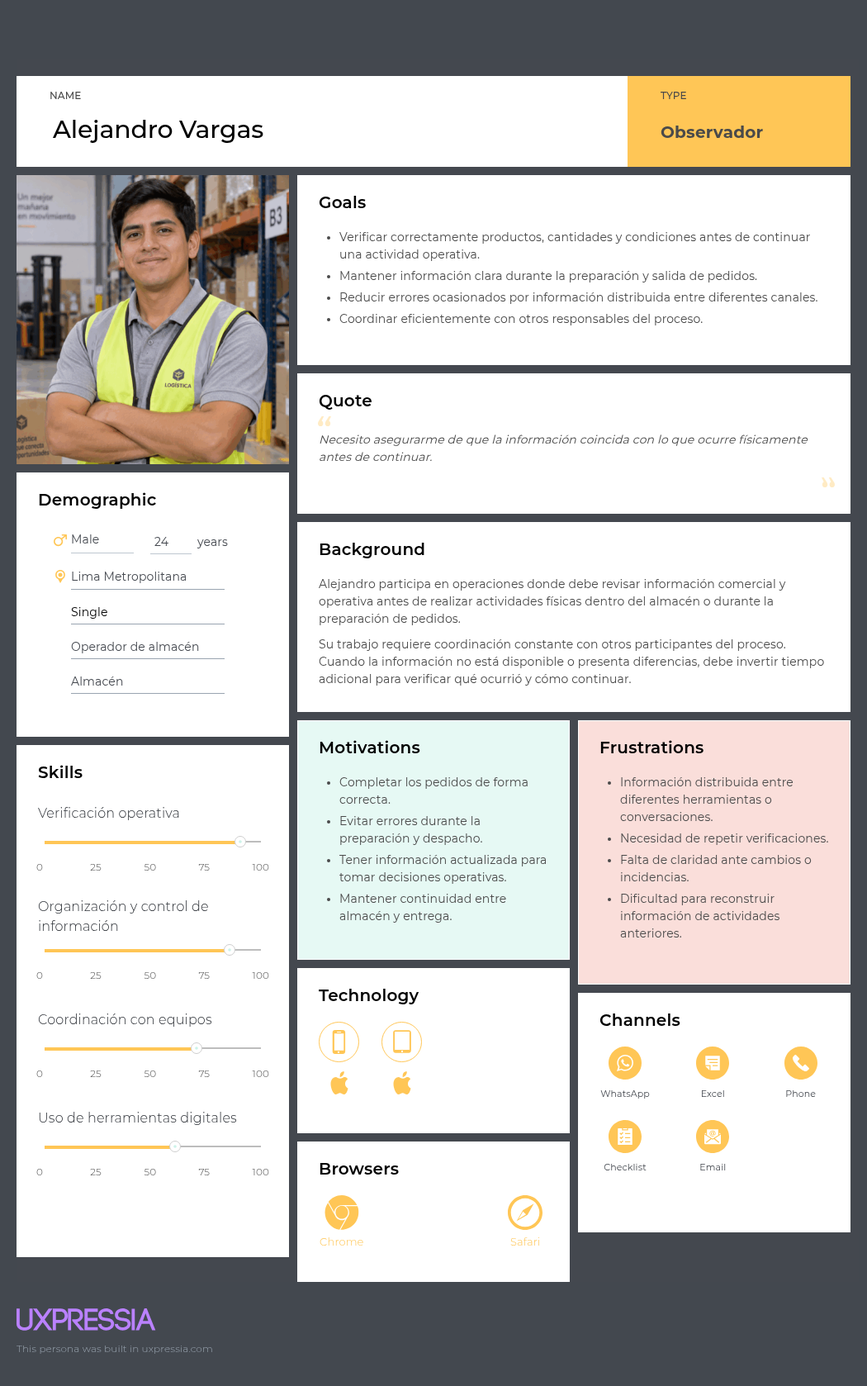
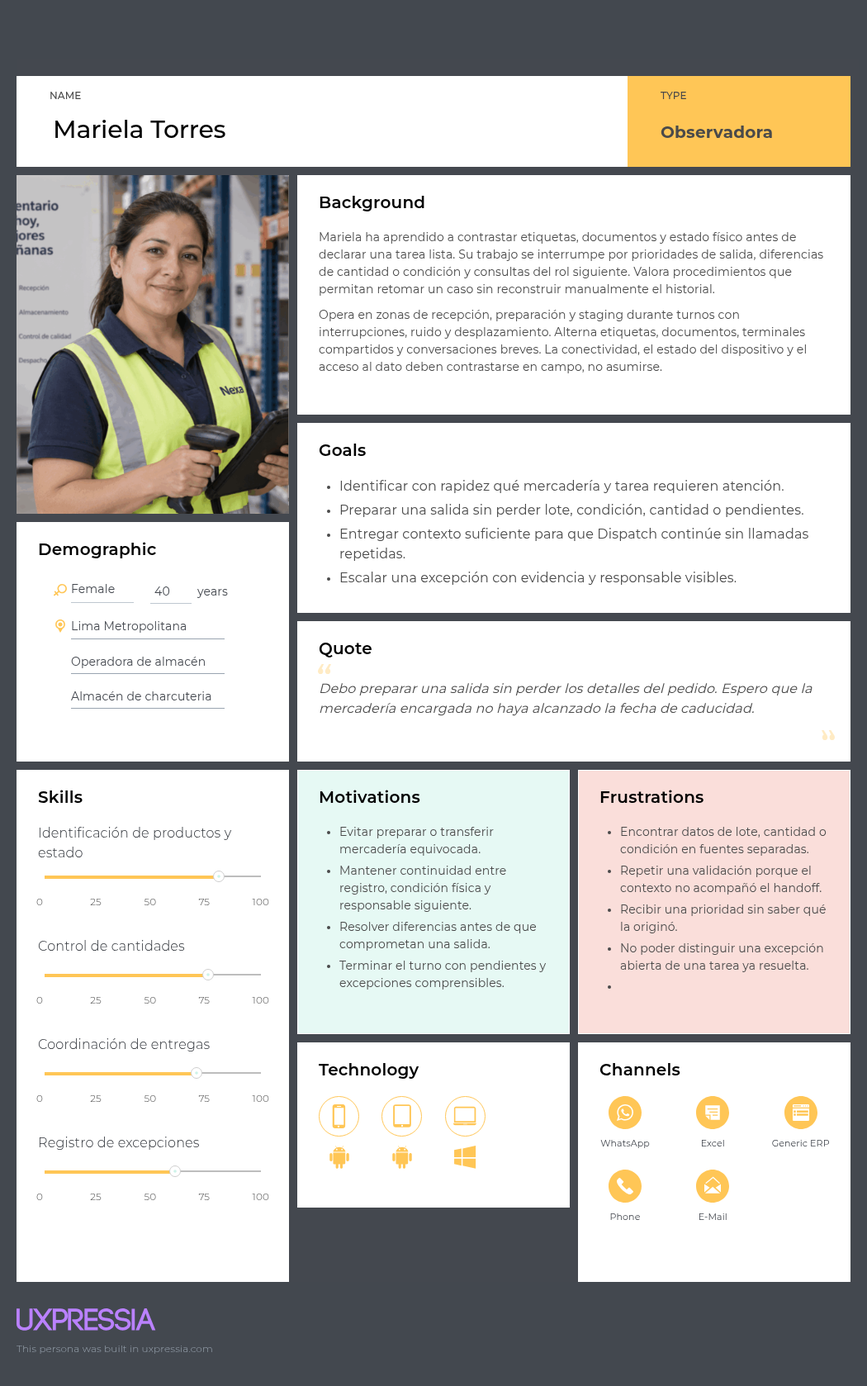
revert: remove unrelated chapter 2 updates

Changed region(s): [[0.0, 0.062, 1.0, 0.9297], [0.061, 0.8057, 0.2438, 0.8677], [0.061, 0.7437, 0.2438, 0.7747]]

diff --git a/report/02-requirements-and-software-solution-design/2.3-needfinding/2.3.1-user-personas.md b/report/02-requirements-and-software-solution-design/2.3-needfinding/2.3.1-user-personas.md
@@ -1,73 +1,104 @@
 ## 2.3. Needfinding
 
-La construcción de este bloque parte de tres insumos previos. El primero es el análisis de entrevistas de la sección 2.2, que identifica patrones de comportamiento, fricciones recurrentes y expectativas de adopción. El segundo es el análisis competitivo de la sección 2.1, que muestra que las soluciones existentes resuelven fragmentos del problema, pero no articulan con suficiente claridad la continuidad entre captura comercial, abastecimiento del cliente y cierre de entrega. El tercero es la lógica del dominio modelada en el proyecto, donde cada segmento interviene en un momento distinto del flujo.
-
-Los artefactos de needfinding traducen evidencia cualitativa en criterios de diseño: quién necesita autonomía, quién necesita visibilidad, quién necesita rapidez, quién necesita trazabilidad y en qué punto del recorrido cada necesidad se vuelve más sensible.
-
 ### 2.3.1. User Personas
 
-Las tres User Personas presentadas en esta sección fueron elaboradas a partir de los patrones identificados en el análisis de entrevistas. Su construcción busca representar comportamientos, objetivos, motivaciones, frustraciones y condiciones de uso relevantes para el diseño de Nexa Mobile sin convertir características particulares de un entrevistado en propiedades generales del segmento. Los nombres y perfiles utilizados son ficticios y funcionan como **arquetipos de diseño**; no representan participantes reales ni promedios estadísticos de la muestra.
+Las tres User Personas son arquetipos sintéticos informados por patrones
+recurrentes del Interview Analysis (2.2.3) y por el contexto competitivo de
+2.1. No representan entrevistados, promedios estadísticos, perfiles de
+autorización ni entidades de dominio. Su función es mantener visibles las
+necesidades y condiciones de trabajo de los segmentos sin convertirlas en una
+validación de solución.
 
-#### Alejandro Vargas — Warehouse & Dispatch Operations
+*Nota de procedencia.* Los PNG exportados desde UXPressia conservan etiquetas e
+identidades sintéticas. La interpretación conductual presentada en esta sección
+sigue el *Needfinding* cerrado y no atribuye sus datos visuales a participantes
+reales.
 
-**Nombre:** Alejandro Vargas
+#### Mariela Torres — Síntesis de Warehouse & Dispatch Operations
 
-**Segmento:** `MOB-SEG-01 — Warehouse & Dispatch Operations`
+**Segmento y fuente.** Mariela sintetiza `MOB-SEG-01` a partir de
+`INT-S1-01`, `INT-S1-02` y `INT-S1-03`. Dos casos corresponden a trabajo
+Warehouse y uno a coordinación de almacén y despacho.
 
-Este segmento esta compuesto por personas que participan en recepción, preparación, readiness y salida física del pedido. La muestra correspondiente reúne dos casos principalmente asociados con trabajo de `Warehouse Operator` y uno con coordinación de almacén y despacho, por lo que la persona se centra en el trabajo operativo de almacén sin eliminar las diferencias de responsabilidad que corresponden al `Dispatch Coordinator`.
+**Comportamientos y tareas.** La síntesis prioriza verificar producto e
+información antes de continuar, consultar una herramienta empresarial, preparar
+el pedido, resolver una excepción y transferir responsabilidad. WhatsApp aparece
+como canal de coordinación; los registros, hojas de cálculo y controles físicos
+varían según el caso.
 
-La construcción de Alejandro prioriza la exactitud antes de continuar con una actividad física. En la muestra se repiten la verificación de producto e información, el uso de herramientas empresariales y la coordinación mediante WhatsApp. También aparecen la resolución de excepciones y la necesidad de conservar contexto cuando el pedido pasa hacia la siguiente actividad. Entre las principales fricciones se encuentran la información fragmentada o duplicada, las verificaciones repetidas, la limitada flexibilidad ante ciertas excepciones y las condiciones físicas que pueden dificultar la consulta o el registro mientras se manipula mercadería.
+**Necesidades y pains.** Necesita conservar contexto suficiente entre
+verificación, preparación y transferencia, sin duplicar consultas o registros.
+Las fricciones recurrentes incluyen información fragmentada, flexibilidad
+limitada ante excepciones y, en parte de la muestra, restricciones físicas para
+consultar o registrar datos.
 
-*Ficha de User Persona 1 — Alejandro Vargas, Warehouse & Dispatch Operations*
+**Límite y frontera.** Mariela no equivale a una persona entrevistada ni fusiona
+`Warehouse Operator` con `Dispatch Coordinator`. La evidencia de transferencia
+no es homogénea y las tareas de cada actor permanecen separadas.
 
 ![User Persona 1](../../assets/chapter-2/needfinding/user-persona-1.png)
 
-*Nota.* Ficha de User Persona 1 elaborada a partir de los patrones identificados en las muestras y representada mediante UXPressia. Elaboración propia.
+*Nota.* La Persona interpreta patrones de verificación, preparación, excepción y
+transferencia del segmento; no establece una frecuencia operativa general ni una
+solución Mobile validada.
 
-La ficha representa a un usuario que combina consulta de información digital con trabajo físico y que necesita reducir la posibilidad de continuar con datos incompletos o inconsistentes. El arquetipo no supone que todos los trabajadores del segmento utilicen el mismo procedimiento, dispositivo o mecanismo de evidencia. Asimismo, `Warehouse Operator` y `Dispatch Coordinator` mantienen responsabilidades diferenciadas cuando una tarea depende específicamente de la preparación o de la transferencia de responsabilidad.
+#### Diego Ramírez — Síntesis de Driver Delivery Execution
 
-#### Diego Morales — Driver Delivery Execution
+**Segmento y fuente.** Diego sintetiza `MOB-SEG-02` a partir de `INT-S2-01`,
+`INT-S2-02` y `INT-S2-03`.
 
-**Nombre:** Diego Morales
+**Comportamientos y tareas.** La síntesis recoge verificación previa, ejecución
+de la entrega asignada, comunicación o escalamiento de incidencias y conservación
+de algún mecanismo de evidencia del resultado. Fotografías y códigos de
+verificación aparecen como mecanismos distintos según la operación.
 
-**Segmento:** `MOB-SEG-02 — Driver Delivery Execution`
+**Necesidades y pains.** Necesita reconocer el contexto de entrega, reaccionar
+ante una incidencia y distinguir evidencia, resultado y comunicación asociados
+al intento correcto. Batería, señal, sobrecalentamiento, clima y seguridad física
+condicionan el uso del teléfono; no se asume disponibilidad continua del
+dispositivo.
 
-Este segmento esta conformado por personas responsables de ejecutar entregas asignadas y registrar lo ocurrido durante cada `Delivery Attempt`. La persona recoge patrones de las tres entrevistas realizadas a trabajadores que ejecutan entregas en campo y que, aunque operan bajo modalidades diferentes, comparten necesidades relacionadas con preparación, comunicación, resolución de incidencias y uso del teléfono durante la ruta.
-
-La construcción de Diego refleja un contexto donde el usuario debe revisar la entrega asignada, desplazarse hasta el punto correspondiente, reaccionar ante problemas y comunicar lo ocurrido cuando una entrega no puede completarse según lo previsto. La muestra también evidencia que existe algún mecanismo para dejar constancia del resultado, aunque este no es homogéneo entre operaciones. Las restricciones de batería, señal, conectividad, condiciones ambientales y seguridad física forman parte del contexto móvil y pueden afectar la disponibilidad del dispositivo durante el trabajo.
-
-*Ficha de User Persona 2 — Diego Morales, Driver Delivery Execution*
+**Límite y frontera.** Diego representa un Driver / Delivery Operator, no una
+autoridad de recepción. Su resultado permanece separado de Buyer Receipt y la
+evidencia no se reduce a fotografía como formato universal.
 
 ![User Persona 2](../../assets/chapter-2/needfinding/user-persona-2.png)
 
-*Nota.* Ficha de User Persona 2 elaborada a partir de los patrones identificados en las muestras y representada mediante UXPressia. Elaboración propia.
+*Nota.* La Persona resume condiciones móviles, comunicación y resolución de
+incidencias observadas en la muestra; no acredita tracking continuo ni valida
+una feature de Delivery.
 
-La ficha representa a un usuario orientado a completar la entrega, adaptarse a las condiciones de la ruta y resolver incidencias mediante comunicación o escalamiento cuando corresponde. El arquetipo no establece tracking continuo, disponibilidad permanente de conexión ni un formato universal de evidencia. Además, el resultado registrado por el `Driver / Delivery Operator` permanece diferenciado de la recepción o discrepancia comunicada posteriormente por el comprador.
+#### Carlos Mendoza — Síntesis de B2B Buyers
 
-#### Carlos Mendoza — B2B Buyers
+**Segmento y fuente.** Carlos sintetiza `MOB-SEG-03` a partir de `INT-S3-01`,
+`INT-S3-02` y `INT-S3-03`.
 
-**Nombre:** Carlos Mendoza
+**Comportamientos y tareas.** La síntesis centra reabastecimiento, continuidad
+de suministro, puntualidad, coordinación con proveedores y protección de la
+disponibilidad para clientes propios. También incorpora seguimiento de llegada,
+recepción o coordinación de recepción y resolución de incidencias cuando
+corresponde.
 
-**Segmento:** `MOB-SEG-03 — B2B Buyers`
+**Necesidades y pains.** Necesita anticipar faltantes, conocer cambios que
+afectan una compra o llegada y contar con respuesta verificable ante demoras,
+faltantes, daños o incumplimientos. La recepción física detallada es un
+subescenario importante, pero la evidencia más profunda de ese recorrido se
+concentra en un caso y no representa todo el segmento.
 
-Este segmento esta formado por compradores empresariales que protegen la continuidad de su abastecimiento, coordinan con proveedores y reciben o verifican entregas cuando corresponde. La persona se construye principalmente alrededor de la continuidad comercial, evitando reducir el rol del `Customer Buyer` a la recepción física de mercadería.
-
-La muestra evidencia como preocupaciones recurrentes la puntualidad, la prevención de quiebres de existencias y la capacidad de resolver excepciones mediante una relación confiable con el proveedor. Carlos representa a un comprador que necesita identificar necesidades de reabastecimiento, coordinar pedidos, conocer cambios relevantes y realizar seguimiento a la llegada para proteger la disponibilidad destinada a sus propios clientes. Las demoras, incumplimientos, faltantes, daños y la coordinación manual aparecen como fricciones relevantes. La recepción física detallada se conserva como un escenario aplicable cuando corresponde, pero no se generaliza como comportamiento universal del segmento.
-
-*Ficha de User Persona 3 — Carlos Mendoza, B2B Buyers*
+**Límite y frontera.** Carlos representa un Customer Buyer sintético. Buyer
+Receipt expresa su perspectiva sobre lo recibido y no sobrescribe Driver Outcome
+ni otros hechos de negocio.
 
 ![User Persona 3](../../assets/chapter-2/needfinding/user-persona-3.png)
 
-*Nota.* Ficha de User Persona 3 elaborada a partir de los patrones identificados en las muestras y representada mediante UXPressia. Elaboración propia.
-
-La ficha representa a un comprador cuya prioridad es mantener la continuidad del abastecimiento y responder oportunamente ante cambios que puedan afectar su operación comercial. El uso de dispositivos y canales digitales observado en la muestra aporta contexto para comprender sus actividades, pero no convierte una aplicación, navegador, medio de pago o canal específico en un requisito universal. De la misma manera, `Buyer Receipt` expresa la perspectiva del comprador sobre lo recibido y permanece separado del resultado declarado por el `Driver / Delivery Operator`.
+*Nota.* La Persona articula la continuidad comercial del Buyer con recepción y
+discrepancia cuando aplican; no convierte canales, edad o herramientas de la
+muestra en requisitos de diseño.
 
 #### Uso y estado metodológico
 
-Las User Personas funcionan como una síntesis de la evidencia obtenida durante las entrevistas y proporcionan una referencia común para los siguientes artefactos de *Needfinding*. Alejandro Vargas concentra los patrones asociados con verificación, preparación, excepciones y continuidad hacia la salida del pedido; Diego Morales concentra las condiciones móviles, la ejecución del intento de entrega, la comunicación de incidencias y la conservación de evidencia; y Carlos Mendoza concentra el reabastecimiento, la coordinación con proveedores, la puntualidad y la continuidad comercial.
-
-Las características incluidas deben interpretarse dentro de los límites de la muestra realizada. La cobertura de tres entrevistas por segmento permite identificar recurrencias útiles para el proceso de diseño, pero no permite afirmar frecuencias poblacionales ni convertir una característica observada en una regla aplicable a todos los usuarios potenciales de Nexa. Por esta razón, los perfiles demográficos, nombres y demás elementos utilizados para dar coherencia visual a las fichas se emplean como recursos de representación y no como identidades de participantes reales.
-
-Asimismo, las personas mantienen las fronteras de responsabilidad definidas para los segmentos objetivo. `Warehouse Operator` y `Dispatch Coordinator` pueden participar en momentos relacionados del flujo físico, pero no constituyen un único rol; `Driver / Delivery Operator` registra el resultado de su intento de entrega sin asumir la perspectiva de recepción del comprador; y `Customer Buyer` protege el abastecimiento y puede comunicar recepción o discrepancia cuando corresponda sin apropiarse de los hechos operativos del Driver. Esta separación permite que los artefactos posteriores conserven el contexto de cada actor sin fusionar responsabilidades diferentes.
-
-Finalmente, las User Personas representan la situación investigada y sirven como insumo para la elaboración de User Task Matrix, User Journey Maps, Empathy Maps e Impact Mapping. Su propósito es mantener visibles los problemas, tareas, necesidades y condiciones actuales de los usuarios durante el diseño. Por tanto, ninguna característica de las fichas debe interpretarse por sí sola como validación de una solución, aceptación de una funcionalidad o evidencia de que una capacidad futura de Nexa Mobile ya resuelve los problemas observados.
+Mariela Torres, Diego Ramírez y Carlos Mendoza organizan la interpretación de
+la User Task Matrix, los User Journey Maps, los Empathy Maps y el Impact
+Mapping. Las Personas aportan una síntesis de problema y tarea actual; la
+validación de efectos, outcomes y capacidades propuestas permanece en etapas de
+solution validation.

diff --git a/report/02-requirements-and-software-solution-design/2.3-needfinding/2.3.2-user-task-matrix.md b/report/02-requirements-and-software-solution-design/2.3-needfinding/2.3.2-user-task-matrix.md
@@ -1,8 +1,9 @@
 ### 2.3.2. User Task Matrix
 
-La User Task Matrix concentra las tareas que realizan las tres User Personas paraalcanzar sus objetivos en la situación actual, independientemente de que Nexa Mobile exista o de la forma en que una futura solución pueda apoyarlas. Se consideran **Alejandro Vargas**, representante de `MOB-SEG-01 — Warehouse & Dispatch Operations`; **Diego Morales**, representante de `MOB-SEG-02 — Driver Delivery Execution`; y **Carlos Mendoza**, representante de `MOB-SEG-03 — B2B Buyers`.
-
-Las tareas se derivan de los patrones identificados en las entrevistas y sintetizados en las User Personas. Por ello, describen actividades del usuario —por ejemplo, verificar mercadería, coordinar una entrega o identificar una necesidad de reabastecimiento— y no opciones de interfaz, funcionalidades de software ni mecanismos específicos de Nexa.
+La matriz ordena tareas del mundo real descritas en el *Needfinding*, antes de
+proponer una interfaz o un flujo de Nexa. Las valoraciones reflejan centralidad
+dentro de los recorridos relatados; no convierten una recurrencia de la muestra
+en frecuencia operativa general.
 
 *Escala de frecuencia e importancia para los recorridos As-Is*
 
@@ -13,32 +14,34 @@ Las tareas se derivan de los patrones identificados en las entrevistas y sinteti
 | Baja | Responsabilidad real de baja frecuencia o centrada en excepciones. | Es útil resolverla, pero no define por sí sola el flujo principal. |
 | No aplica | No forma parte de la responsabilidad de la Persona. | No forma parte de la responsabilidad de la Persona. |
 
-### User Task Matrix
-*User Task Matrix de las User Personas de Nexa Mobile*
-| Tarea realizada por el usuario | Alejandro Vargas — Frecuencia | Alejandro Vargas — Importancia | Diego Morales — Frecuencia | Diego Morales — Importancia | Carlos Mendoza — Frecuencia | Carlos Mendoza — Importancia |
-| :--- | :---: | :---: | :---: | :---: | :---: | :---: |
-| Reunir y revisar la información necesaria para iniciar o continuar su actividad | Alta | Alta | Alta | Alta | Alta | Alta |
-| Verificar que la mercadería y la información coincidan con lo esperado —producto, cantidad, condición y, cuando corresponda, lote o vencimiento— | Alta | Alta | Alta | Alta | Media | Alta |
-| Preparar y dejar el pedido listo para continuar hacia la siguiente actividad operativa | Alta | Alta | No aplica | No aplica | No aplica | No aplica |
-| Coordinar la transferencia o salida del pedido con el siguiente responsable del proceso | Alta | Alta | No aplica | No aplica | No aplica | No aplica |
-| Revisar la entrega asignada y desplazarse hacia el destino correspondiente | No aplica | No aplica | Alta | Alta | No aplica | No aplica |
-| Coordinar con otra persona involucrada —compañero, cliente, proveedor, vendedor, soporte o responsable operativo— para mantener la continuidad del trabajo | Alta | Alta | Alta | Alta | Alta | Alta |
-| Resolver o escalar una incidencia, como faltantes, daños, diferencias, dirección incorrecta, ausencia, rechazo o retraso | Media | Alta | Media | Alta | Media | Alta |
-| Conservar un registro o evidencia suficiente para explicar el cambio de responsabilidad o el resultado de la actividad | Media | Alta | Alta | Alta | Media | Alta |
-| Identificar una necesidad de reabastecimiento antes de que la falta de producto afecte la operación | No aplica | No aplica | No aplica | No aplica | Alta | Alta |
-| Coordinar o realizar un pedido con un proveedor de acuerdo con la necesidad de abastecimiento | No aplica | No aplica | No aplica | No aplica | Alta | Alta |
-| Dar seguimiento a la llegada y puntualidad de un pedido para anticipar su impacto en la operación | No aplica | No aplica | No aplica | No aplica | Alta | Alta |
-| Recibir o coordinar la recepción de un pedido y comunicar diferencias entre lo esperado y lo recibido cuando corresponda | No aplica | No aplica | No aplica | No aplica | Media | Alta |
+*Matriz de tareas del mundo real por Persona*
 
-*Nota.* Las valoraciones representan la centralidad cualitativa de cada tarea dentro de los recorridos investigados y no porcentajes poblacionales ni frecuencias medidas por unidad de tiempo. La categoría “No aplica” evita atribuir a una Persona tareas que pertenecen a otra responsabilidad. En particular, la matriz no convierte la preparación de almacén, el resultado del `Driver / Delivery Operator` y la recepción o discrepancia del `Customer Buyer` en una única responsabilidad. Elaboración propia.
+| Tarea del mundo real | Mariela: Frecuencia | Mariela: Importancia | Diego: Frecuencia | Diego: Importancia | Carlos: Frecuencia | Carlos: Importancia | Fundamento en Needfinding |
+| --- | --- | --- | --- | --- | --- | --- | --- |
+| Reconocer el pedido, entrega o trabajo actual | Alta | Alta | Alta | Alta | Alta | Alta | Cada segmento necesita identificar su contexto antes de continuar. |
+| Consultar información relevante para continuar | Alta | Alta | Alta | Alta | Alta | Alta | Herramientas empresariales, aplicaciones, registros o canales directos apoyan el trabajo según el segmento. |
+| Verificar producto, cantidad, condición o información antes de continuar | Alta | Alta | Media | Alta | Media | Alta | La comprobación física es central en Warehouse; Driver verifica antes de la ruta y Buyer la realiza o coordina cuando corresponde. |
+| Preparar trabajo Warehouse y confirmar readiness o handoff | Alta | Alta | No aplica | No aplica | No aplica | No aplica | Preparación y transferencia pertenecen a Warehouse & Dispatch Operations. |
+| Ejecutar un Delivery Attempt y registrar su resultado | No aplica | No aplica | Alta | Alta | No aplica | No aplica | La ejecución de entrega es responsabilidad de Driver / Delivery Operator. |
+| Coordinar o escalar una excepción | Media | Alta | Alta | Alta | Alta | Alta | Faltantes, daños, direcciones, demoras o incumplimientos requieren coordinación con otra persona. |
+| Asociar o revisar evidencia, registro o documento del hecho | Media | Alta | Alta | Alta | Media | Alta | El mecanismo varía: registro de operación, fotografía, código, boleta o documentación de apoyo. |
+| Consultar estado de salida, ruta, llegada o pedido | Media | Media | Media | Media | Alta | Alta | Para Buyer, la llegada y puntualidad protegen abastecimiento; en operación y ruta depende del caso. |
+| Identificar una necesidad de reabastecimiento y preparar o repetir una compra | No aplica | No aplica | No aplica | No aplica | Alta | Alta | La continuidad de suministro y la prevención de quiebres organizan el recorrido Buyer. |
+| Recibir o coordinar una entrega como Buyer y comunicar una discrepancia al proveedor | No aplica | No aplica | No aplica | No aplica | Media | Alta | Es un subescenario Buyer real, con mayor evidencia detallada en una entrevista. |
+| Retomar trabajo después de una interrupción | Media | Alta | Alta | Alta | Media | Media | Interrupciones físicas, de comunicación, disponibilidad o atención afectan los tres recorridos de modo distinto. |
 
-La matriz muestra tres núcleos de actividad claramente diferenciados. Para **Alejandro Vargas**, las tareas de mayor frecuencia e importancia son revisar información, verificar mercadería, preparar el pedido y asegurar que pueda continuar hacia la siguiente actividad sin diferencias pendientes. Esta lectura coincide con el patrón recurrente de verificación antes de continuar observado en el segmento. La gestión de incidencias mantiene importancia alta, pero se clasifica con frecuencia media porque aparece cuando el flujo normal presenta faltantes, daños, inconsistencias u otras excepciones. Del mismo modo, conservar evidencia de la transferencia es importante, pero su frecuencia se mantiene en nivel medio porque las entrevistas muestran mecanismos distintos y no homogéneos para dejar constancia del cambio de responsabilidad.
+*Nota.* Mariela, Diego y Carlos son arquetipos sintéticos. La matriz interpreta
+la evidencia de campo y no prueba que una capacidad esté implementada o produzca
+un outcome.
 
-Para **Diego Morales**, el recorrido se concentra en revisar la entrega, verificar su condición, desplazarse al destino, coordinar con las personas involucradas y dejar constancia del resultado. La evidencia de entrega o intento recibe frecuencia e importancia altas porque los tres casos del segmento describen algún mecanismo para respaldar el resultado, aunque la forma concreta varía entre fotografías, códigos u otros controles. Las incidencias se mantienen con frecuencia media e importancia alta: no constituyen el objetivo normal de una entrega, pero cuando ocurren pueden detener la ruta, requerir intervención de otra persona o terminar en rechazo o retorno del producto.
+La mayor centralidad se concentra en verificación, preparación y transferencia
+para Mariela; en Delivery Attempt, incidencias y evidencia para Diego; y en
+reabastecimiento, coordinación y puntualidad para Carlos. La recepción y la
+discrepancia permanecen relevantes para Buyer, pero no agotan su continuidad
+comercial.
 
-Para **Carlos Mendoza**, las tareas centrales son identificar oportunamente una necesidad de reabastecimiento, coordinar el pedido con el proveedor y dar seguimiento a su llegada para proteger la continuidad comercial. La comunicación con el proveedor
-es también una actividad de alta frecuencia e importancia, especialmente ante urgencias o cambios. La recepción física detallada se mantiene con frecuencia media e importancia alta: forma parte del contexto del segmento cuando corresponde, pero la evidencia previa no permite presentarla como una actividad igualmente detallada para todos los compradores entrevistados. Esta distinción evita reducir al `Customer Buyer` a la sola recepción de mercadería.
-
-Como coincidencia, los tres arquetipos necesitan **información suficiente para actuar, verificación y coordinación con otras personas**. También comparten la necesidad de resolver excepciones, aunque estas aparecen en momentos y bajo responsabilidades diferentes. La diferencia principal se encuentra en el propósito de esas tareas: Alejandro protege la exactitud antes de que el pedido continúe en la operación física; Diego protege la ejecución y explicación del resultado de la entrega; y Carlos protege la continuidad del abastecimiento de su negocio.
-
-Estas diferencias son relevantes para los siguientes artefactos de *Needfinding*, pues permiten mantener separados los objetivos y responsabilidades de cada Persona. La matriz, por tanto, funciona como una síntesis de tareas del mundo real y no como una lista anticipada de funcionalidades de Nexa Mobile.
+Las diferencias principales son de responsabilidad: Warehouse no ejecuta la
+entrega, Driver no decide el reabastecimiento y Buyer no realiza el handoff de
+almacén. Los tres recorridos comparten la necesidad de información suficiente,
+verificación y coordinación ante excepciones, sin convertir esas tareas en una
+misma autoridad de dominio.

diff --git a/report/02-requirements-and-software-solution-design/2.3-needfinding/2.3.3-user-journey-mapping.md b/report/02-requirements-and-software-solution-design/2.3-needfinding/2.3.3-user-journey-mapping.md
@@ -1,42 +1,53 @@
 ### 2.3.3. User Journey Mapping
 
-El User Journey Mapping permite representar la experiencia de cada segmento objetivo durante la ejecución de actividades relacionadas con su contexto operativo. A partir de la información obtenida durante las entrevistas y la definición de User Personas, se identifican las etapas principales del recorrido, las acciones realizadas, pensamientos, puntos de dolor, emociones experimentadas y oportunidades de mejora.
+Los Journey Maps describen la experiencia **As-Is** sin Nexa. Sintetizan
+patrones recurrentes de investigación y no son transcripciones, diseños de
+interfaz ni validación de una solución. Los PNG de UXPressia se conservan como
+artefactos visuales; esta interpretación canónica delimita el recorrido que
+representan.
 
-Los siguientes Journey Maps representan el estado actual de los usuarios antes de considerar la incorporación de una solución digital. Por ello, describen las actividades, dificultades y necesidades presentes en sus procesos habituales de trabajo.
+#### Mariela Torres — Warehouse & Dispatch Operations
 
----
+*As-Is Journey Map de Mariela Torres: preparación, verificación, excepción y transferencia de responsabilidad*
 
-#### Alejandro — Warehouse & Dispatch Operations
+El recorrido parte de una recepción o tarea de preparación, continúa con consulta
+de información empresarial y comprobación física, y avanza mediante preparación
+y re-verificación. Cuando aparece una diferencia, se detiene, separa o escala
+antes de la transferencia. El Journey Map conserva que Warehouse y Dispatch
+tienen responsabilidades diferenciadas y que la evidencia de handoff no es
+homogénea.
 
-Alejandro participa en actividades de recepción, preparación, verificación y coordinación de salida de pedidos. Su recorrido depende de que la información comercial y operativa coincida con las condiciones físicas del almacén y del pedido preparado.
+![Journey Map 1](../../assets/chapter-2/needfinding/journey-map-1.png)
 
-*Warehouse & Dispatch Operations Journey Map*
-![Journey Map 1](../../assets/chapter-2/needfinding/user-journey-map-1.png)
-*Nota.* Journey Map elaborado a partir de la información recopilada durante las entrevistas realizadas a trabajadores involucrados en actividades de almacén y despacho, complementada con la definición del User Persona Alejandro. Representa el recorrido actual (*as-is*) durante la preparación y coordinación de pedidos antes de considerar una solución digital. Elaboración propia.
+*Nota.* Síntesis As-Is basada en `INT-S1-01`, `INT-S1-02` y `INT-S1-03`; no
+describe funciones de Nexa ni asume que todos los handoffs usan el mismo registro.
 
+#### Diego Ramírez — Driver Delivery Execution
 
-#### Diego — Driver Delivery Execution
+*As-Is Journey Map de Diego Ramírez: entrega asignada, intento, incidencia, evidencia y cierre*
 
-Diego realiza actividades de entrega donde debe trasladarse hacia diferentes destinos, coordinar con clientes y resolver situaciones inesperadas durante la ruta. Su experiencia depende de disponer de información suficiente para ejecutar la entrega y explicar el resultado obtenido.
+El recorrido parte de una entrega asignada y su verificación, continúa con ruta y
+Delivery Attempt, y contempla una incidencia con comunicación o escalamiento.
+El resultado se respalda mediante un mecanismo de evidencia que cambia por
+operación y puede continuar, retornar o cerrar según el caso. Las restricciones
+móviles forman parte del contexto, no de una funcionalidad propuesta.
 
-*Driver Delivery Execution Journey Map*
-![Journey Map 2](../../assets/chapter-2/needfinding/user-journey-map-2.png)
-*Nota.* Journey Map elaborado a partir de la información recopilada durante las entrevistas realizadas a repartidores encargados de la entrega final y la definición del User Persona Diego. Representa el recorrido actual (*as-is*) durante la ejecución de entregas, coordinación con receptores y resolución de incidencias. Elaboración propia.
+![Journey Map 2](../../assets/chapter-2/needfinding/journey-map-2.png)
 
-#### Carlos — B2B Buyers
+*Nota.* Síntesis As-Is basada en `INT-S2-01`, `INT-S2-02` y `INT-S2-03`; Driver
+Outcome no equivale a Buyer Receipt ni implica tracking continuo.
 
-Carlos participa en procesos comerciales B2B donde necesita mantener continuidad en el abastecimiento, coordinar pedidos con proveedores y conocer el avance de sus solicitudes para tomar decisiones oportunas.
+#### Carlos Mendoza — B2B Buyers
 
-*B2B Buyers Journey Map*
-![Journey Map 3](../../assets/chapter-2/needfinding/user-journey-map-3.png)
-*Nota.* Journey Map elaborado a partir de la información recopilada durante las entrevistas realizadas a compradores B2B y la definición del User Persona Carlos. Representa el recorrido actual (*as-is*) relacionado con abastecimiento, coordinación con proveedores y seguimiento de pedidos. Elaboración propia.
+*As-Is Journey Map de Carlos Mendoza: reabastecimiento, coordinación y continuidad comercial*
 
-#### Análisis general de los User Journey Maps
+El recorrido parte de demanda o disponibilidad, identifica una necesidad de
+reabastecimiento y coordina compra o pedido con el proveedor. Continúa con
+seguimiento de llegada y protección de la disponibilidad para clientes propios;
+incluye recepción, verificación o excepción cuando el caso lo requiere. El foco
+no se reduce a receipt/discrepancy, aunque ese subescenario se conserva.
 
-Los tres recorridos muestran una necesidad común relacionada con la continuidad de información durante el ciclo del pedido. Aunque cada segmento participa en momentos diferentes del proceso, todos requieren conocer qué ocurrió previamente para poder ejecutar correctamente su siguiente actividad.
+![Journey Map 3](../../assets/chapter-2/needfinding/journey-map-3.png)
 
-En el caso de Alejandro, la principal necesidad se relaciona con mantener consistencia entre la información registrada y las condiciones físicas del pedido. Diego requiere información suficiente durante la ejecución de la entrega y mecanismos claros para comunicar resultados o incidencias. Carlos necesita visibilidad sobre el avance de sus pedidos para mantener la continuidad de su operación comercial.
-
-Las diferencias entre segmentos se encuentran principalmente en el tipo de decisión que toman. Mientras Alejandro toma decisiones operativas dentro del almacén, Diego resuelve situaciones durante una actividad física en movimiento y Carlos toma decisiones comerciales relacionadas con abastecimiento y seguimiento.
-
-En conjunto, los Journey Maps evidencian oportunidades relacionadas con mejorar la disponibilidad de contexto, reducir coordinaciones manuales y conservar información del recorrido del pedido para los participantes involucrados.
+*Nota.* Síntesis As-Is basada en `INT-S3-01`, `INT-S3-02` y `INT-S3-03`; los
+canales y profundidad de recepción varían dentro de la muestra.
